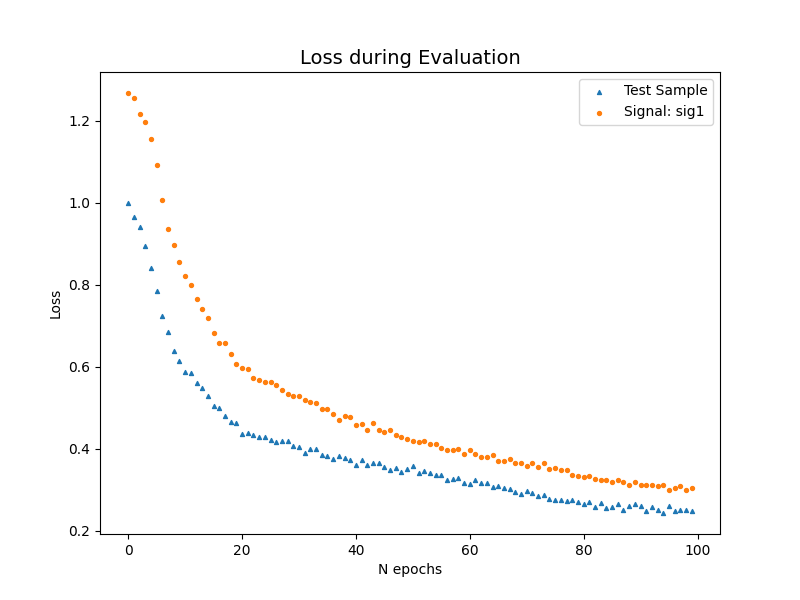
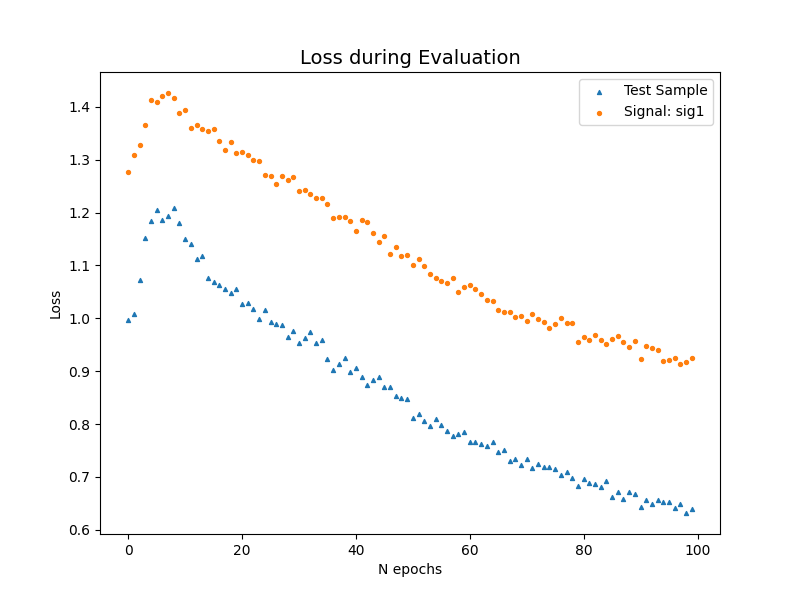
Training with sig1 insertion and percentage 0.005

diff --git a/train.py b/train.py
@@ -57,7 +57,7 @@ model = AutoEncoder(input_dim = input_dim).to(device)
 N_epochs = 100
 batch_size = 2048
 learning_rate = 0.0002
-alpha = 0
+alpha = 100
 
 # dataloaders
 trainLoader = DataLoader(trainSet, batch_size=batch_size, shuffle=True, num_workers=4)
@@ -88,7 +88,7 @@ for epoch in range(N_epochs) :
     sigLoss.append(test(model, testLoader_sig, loss_function, epoch))
 
 # Save model
-torch.save(model.state_dict(), f"models/model_parameters_{signal}_{(int(pct * 1000) % 100):02d}_NODISCO_NOWEIGHTS.pth")
+torch.save(model.state_dict(), f"models/model_parameters_{signal}_{(int(pct * 1000) % 100):02d}_DISCO_NOWEIGHTS.pth")
 
 # Create Loss per Epochs
 fig, axes = plt.subplots(figsize=(8,6))
